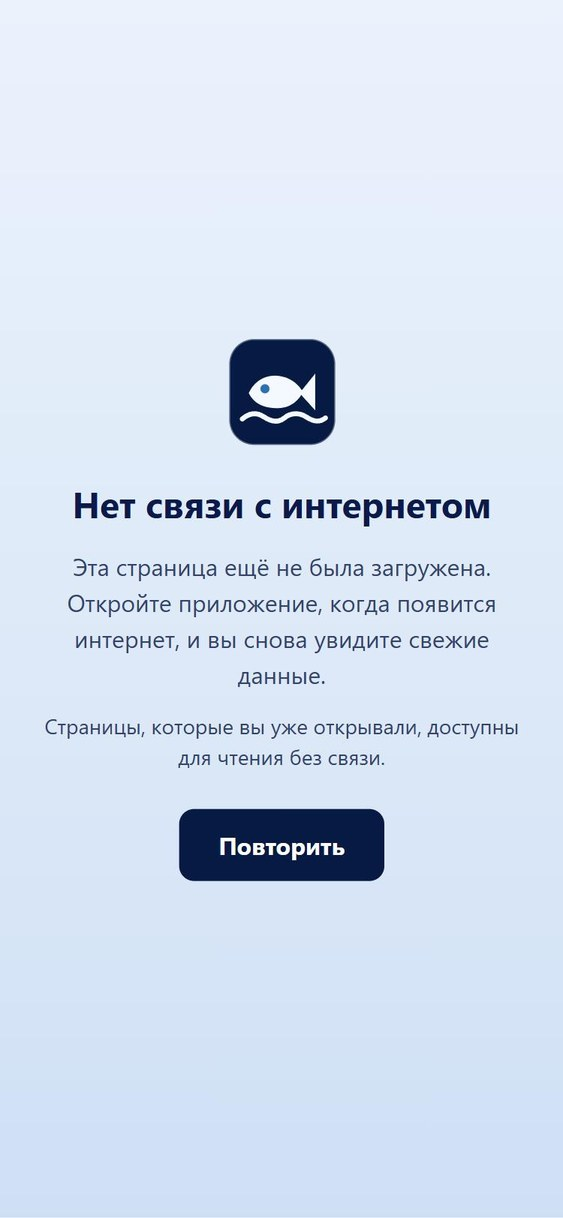
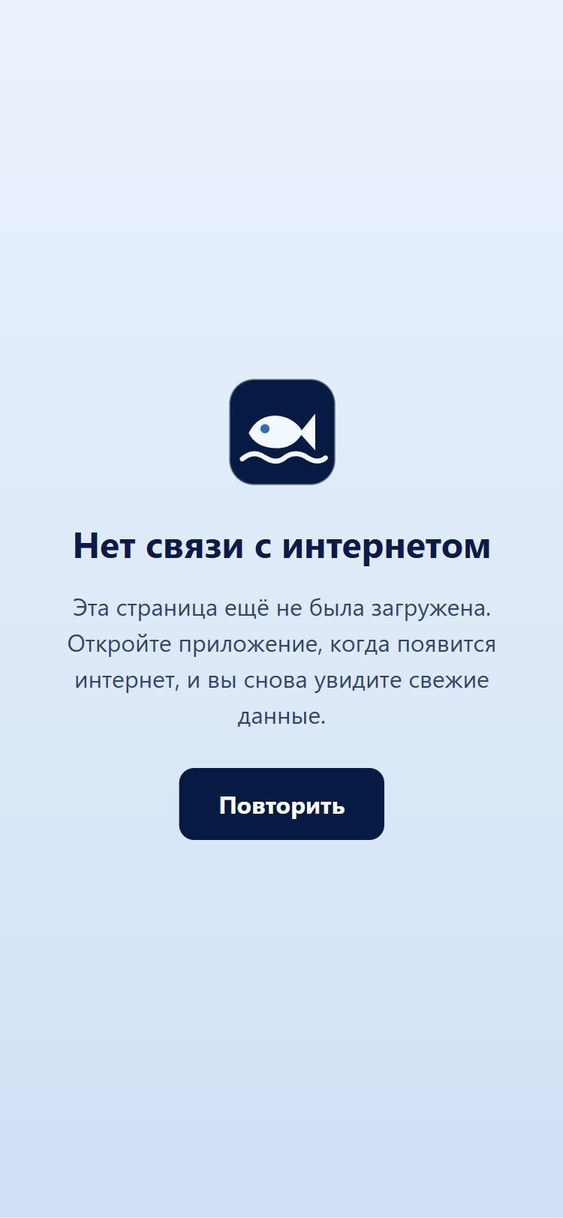
Со страницы «Нет связи» убрана строка про ранее открытые страницы
Остался заголовок, одно пояснение и кнопка «Повторить». Снимок страницы в отчёте обновлён.

Changed region(s): [[0.1208, 0.2808, 0.9059, 0.7488], [0.0906, 0.5928, 0.2416, 0.624]]

diff --git a/src/app/offline/page.tsx b/src/app/offline/page.tsx
@@ -9,7 +9,6 @@ export default function Offline() {
       <BrandIcon className="offline__icon" />
       <h1>Нет связи с интернетом</h1>
       <p>Эта страница ещё не была загружена. Откройте приложение, когда появится интернет, и вы снова увидите свежие данные.</p>
-      <p className="offline__hint">Страницы, которые вы уже открывали, доступны для чтения без связи.</p>
       <a href="/" className="offline__btn">
         Повторить
       </a>

diff --git a/src/app/globals.css b/src/app/globals.css
@@ -535,9 +535,6 @@ body:has(.offline) {
   color: #33436b;
 }
 
-.offline__hint {
-  font-size: 14px;
-}
 
 .offline__btn {
   margin-top: 12px;
